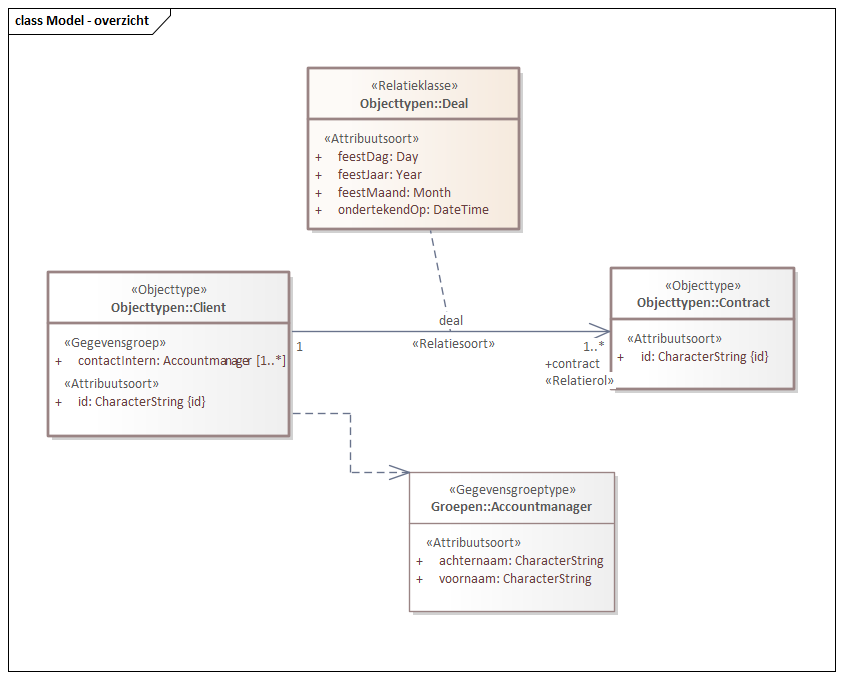
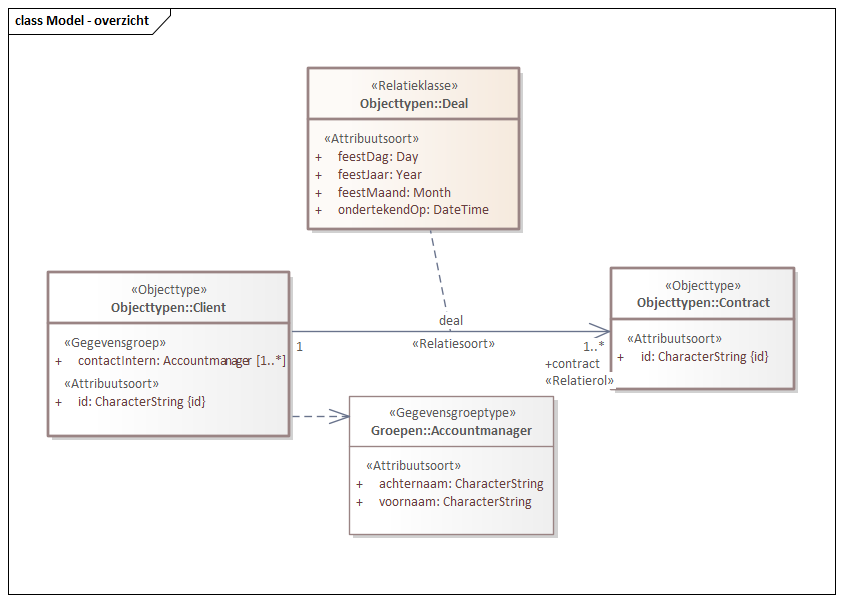
NEN3610-2022-Bakstenenconceptueelmodel-1.0.0-2-20220901-20230118-164837

diff --git a/data/SAMPLE-cat.respec.html b/data/SAMPLE-cat.respec.html
@@ -1,7 +1,7 @@
 
 <!DOCTYPE HTML><section id="cat" class="normative">
    <h2>Gegevensdefinitie</h2>
-   <!--NEN3610-2022-Bakstenenconceptueelmodel-1.0.0-2-20130318-20230118-164554 imvertor Nightly-build.3--><a class="anchor" id="global_packages"></a><section id="global_packages">
+   <!--NEN3610-2022-Bakstenenconceptueelmodel-1.0.0-2-20220901-20230118-164837 imvertor Nightly-build.3--><a class="anchor" id="global_packages"></a><section id="global_packages">
       <h3>Model   Bakstenen conceptueel model</h3>
       <section id="EAID_08513AA0_8A50_46c1_AD86_9B80D9A6AAE1">
          <h4>   Model - overzicht</h4>
@@ -19,7 +19,7 @@
       <h3>Domein   Baksteen productie</h3>
       <section id="EAID_84CEDDF3_6992_489f_A4EE_319145DE4118">
          <h4>   Model - overzicht</h4>
-         <div class="imageinfo overview"><img src="data/Images/EAID_84CEDDF3_6992_489f_A4EE_319145DE4118.png" usemap="#imagemap-EAID_84CEDDF3_6992_489f_A4EE_319145DE4118" alt="Diagram &#xA;                        Overzicht van alle constructies in dit model voor bakstenen en hun producenten.&#xA;                     "><map name="imagemap-EAID_84CEDDF3_6992_489f_A4EE_319145DE4118"><area shape="rect" alt="Fabriek" coords="899,122,1036,231" href="#graph_EAID_0D13D4A0_F7FA_4417_A5FC_3F4C83F067F2"><area shape="rect" alt="Postcode" coords="580,812,742,878" href="#graph_EAID_6E1568CE_9039_4ed8_B360_291D77922C9F"><area shape="rect" alt="Gewicht" coords="804,810,1003,961" href="#graph_EAID_11FD40A5_BE06_452a_9307_B5B5155E0EA4"><area shape="rect" alt="Baksteentype Baksteentype" coords="802,632,1002,778" href="#graph_EAID_705E4D02_09C2_4812_AA1F_D80E12C89EE0"><area shape="rect" alt="Steengrootte" coords="316,622,494,764" href="#graph_EAID_65363897_E229_41fd_BE6F_E6B1BACAD458"><area shape="rect" alt="Oppervlak" coords="309,809,550,876" href="#graph_EAID_8860422B_51C4_4f67_B9C4_90B01A356442"><area shape="rect" alt="Status" coords="53,623,238,763" href="#graph_EAID_E86D21EE_58FD_4975_9CCB_AFF2434704A8"><area shape="rect" alt="Lijn" coords="48,808,283,878" href="#graph_EAID_05E012A3_0E45_4b91_8F93_3CC0D50B0509"><area shape="rect" alt="Goniometric" coords="63,934,260,1088" href="#graph_EAID_22DF50AD_91EB_4db3_AA33_D5C2CE2FB906"><area shape="rect" alt="ExterneProducent" coords="528,372,713,530" href="#graph_EAID_E2C93214_90E2_4151_B719_7BB8CDF8679F"><area shape="rect" alt="Baksteen" coords="70,112,307,448" href="#graph_EAID_CF7C4448_E50C_4c7a_B1D0_C4FCB2EB1814"><area shape="rect" alt="ProductieKenmerk" coords="542,624,757,769" href="#graph_EAID_4D78F0AD_88ED_44ef_9A76_163426CD74D1"><area shape="rect" alt="Producent" coords="515,112,700,311" href="#graph_EAID_04EED45C_4D30_41b9_83EE_65237E1F8E27"><area shape="rect" alt="OppervlakGrootte" coords="316,945,467,1068" href="#graph_EAID_8D034A6D_37F7_4765_9CFF_FE3DF59A8340"></map><p><b>Model - overzicht</b>
+         <div class="imageinfo overview"><img src="data/Images/EAID_84CEDDF3_6992_489f_A4EE_319145DE4118.png" usemap="#imagemap-EAID_84CEDDF3_6992_489f_A4EE_319145DE4118" alt="Diagram &#xA;                        Overzicht van alle constructies in dit model voor bakstenen en hun producenten.&#xA;                     "><map name="imagemap-EAID_84CEDDF3_6992_489f_A4EE_319145DE4118"><area shape="rect" alt="Fabriek" coords="898,130,1035,240" href="#graph_EAID_0D13D4A0_F7FA_4417_A5FC_3F4C83F067F2"><area shape="rect" alt="Postcode" coords="580,812,742,878" href="#graph_EAID_6E1568CE_9039_4ed8_B360_291D77922C9F"><area shape="rect" alt="Gewicht" coords="804,810,1003,961" href="#graph_EAID_11FD40A5_BE06_452a_9307_B5B5155E0EA4"><area shape="rect" alt="Baksteentype Baksteentype" coords="802,632,1002,778" href="#graph_EAID_705E4D02_09C2_4812_AA1F_D80E12C89EE0"><area shape="rect" alt="Steengrootte" coords="316,622,494,764" href="#graph_EAID_65363897_E229_41fd_BE6F_E6B1BACAD458"><area shape="rect" alt="Oppervlak" coords="309,809,550,876" href="#graph_EAID_8860422B_51C4_4f67_B9C4_90B01A356442"><area shape="rect" alt="Status" coords="53,623,238,763" href="#graph_EAID_E86D21EE_58FD_4975_9CCB_AFF2434704A8"><area shape="rect" alt="Lijn" coords="48,808,283,878" href="#graph_EAID_05E012A3_0E45_4b91_8F93_3CC0D50B0509"><area shape="rect" alt="Goniometric" coords="63,934,260,1088" href="#graph_EAID_22DF50AD_91EB_4db3_AA33_D5C2CE2FB906"><area shape="rect" alt="ExterneProducent" coords="528,372,713,530" href="#graph_EAID_E2C93214_90E2_4151_B719_7BB8CDF8679F"><area shape="rect" alt="Baksteen" coords="70,112,307,448" href="#graph_EAID_CF7C4448_E50C_4c7a_B1D0_C4FCB2EB1814"><area shape="rect" alt="ProductieKenmerk" coords="542,624,757,769" href="#graph_EAID_4D78F0AD_88ED_44ef_9A76_163426CD74D1"><area shape="rect" alt="Producent" coords="515,112,700,311" href="#graph_EAID_04EED45C_4D30_41b9_83EE_65237E1F8E27"><area shape="rect" alt="OppervlakGrootte" coords="316,945,467,1068" href="#graph_EAID_8D034A6D_37F7_4765_9CFF_FE3DF59A8340"></map><p><b>Model - overzicht</b>
                
                <p>Overzicht van alle constructies in dit model voor bakstenen en hun producenten.</p>
                </p>
@@ -87,7 +87,7 @@
             
             <section id="EAID_EB759E5B_3FAA_4064_A73E_704926072F89">
                <h6>   Baksteen - detail</h6>
-               <div class="imageinfo "><img src="data/Images/EAID_EB759E5B_3FAA_4064_A73E_704926072F89.png" usemap="#imagemap-EAID_EB759E5B_3FAA_4064_A73E_704926072F89" alt="Diagram &#xA;                              Gedetailleerde informatie over Baksteen objectttype, inclusief traces.&#xA;                           "><map name="imagemap-EAID_EB759E5B_3FAA_4064_A73E_704926072F89"><area shape="rect" alt="Producent" coords="289,68,446,208" href="#graph_EAID_04EED45C_4D30_41b9_83EE_65237E1F8E27"><area shape="rect" alt="Baksteen" coords="268,324,511,660" href="#graph_EAID_CF7C4448_E50C_4c7a_B1D0_C4FCB2EB1814"></map><p><b>Baksteen - detail</b>
+               <div class="imageinfo "><img src="data/Images/EAID_EB759E5B_3FAA_4064_A73E_704926072F89.png" usemap="#imagemap-EAID_EB759E5B_3FAA_4064_A73E_704926072F89" alt="Diagram &#xA;                              Gedetailleerde informatie over Baksteen objectttype, inclusief traces.&#xA;                           "><map name="imagemap-EAID_EB759E5B_3FAA_4064_A73E_704926072F89"><area shape="rect" alt="Producent" coords="164,59,322,199" href="#graph_EAID_04EED45C_4D30_41b9_83EE_65237E1F8E27"><area shape="rect" alt="Baksteen" coords="144,315,386,650" href="#graph_EAID_CF7C4448_E50C_4c7a_B1D0_C4FCB2EB1814"></map><p><b>Baksteen - detail</b>
                      
                      <p>Gedetailleerde informatie over Baksteen objectttype, inclusief traces.</p>
                      </p>
@@ -107,7 +107,7 @@
                      <td>
                         
                         <p>Een onderdeel van een bouwwerk met een rechthoekige vorm, bedoeld om muren mee te
-                           maken.</p>
+                           maken!</p>
                         </td>
                   </tr>
                   <tr>
@@ -122,7 +122,7 @@
                      <th>Toelichting</th>
                      <td>
                         
-                        <p>Een baksteen is een soort bouwmateriaal, <em>maar alleen als het uit klei is gemaakt door 3e graads-bevoegde mensen</em>.</p>
+                        <p>Een baksteen is een soort bouwmateriaal, <em>maar alleen als het uit klei is gemaakt door mensen</em>.</p>
                         </td>
                   </tr>
                   <tr>
@@ -1089,6 +1089,13 @@
                         <tr>
                            <th>Mogelijk geen waarde</th>
                            <td>Nee</td>
+                        </tr>
+                        <tr>
+                           <th>Inwinningsregels</th>
+                           <td>
+                              
+                              <p>Dit zijn de inwinningsregels</p>
+                              </td>
                         </tr>
                         <tr>
                            <th>Indicatie identificerend</th>
@@ -2349,7 +2356,7 @@
       <h3>Domein   Contract</h3>
       <section id="EAID_B1512B43_5B77_4c7c_9574_232179AC3035">
          <h4>   Model - overzicht</h4>
-         <div class="imageinfo overview"><img src="data/Images/EAID_B1512B43_5B77_4c7c_9574_232179AC3035.png" usemap="#imagemap-EAID_B1512B43_5B77_4c7c_9574_232179AC3035" alt="Diagram &#xA;                        Overzicht van alle constructies in dit model voor contracten.&#xA;                        En ook een é diacriet.&#xA;                     "><map name="imagemap-EAID_B1512B43_5B77_4c7c_9574_232179AC3035"><area shape="rect" alt="Accountmanager" coords="409,472,615,612" href="#graph_EAID_29D6B892_B943_494c_94C7_A13DB031E998"><area shape="rect" alt="Deal" coords="308,68,520,230" href="#graph_EAID_77692663_02DC_482e_827D_F7D28AF607D8"><area shape="rect" alt="Contract" coords="611,268,795,390" href="#graph_EAID_77987690_1141_457d_A33B_E1C7AA1EA812"><area shape="rect" alt="Client" coords="48,272,290,437" href="#graph_EAID_DF955A82_3E49_4c9d_9C0C_74738600FE1B"></map><p><b>Model - overzicht</b>
+         <div class="imageinfo overview"><img src="data/Images/EAID_B1512B43_5B77_4c7c_9574_232179AC3035.png" usemap="#imagemap-EAID_B1512B43_5B77_4c7c_9574_232179AC3035" alt="Diagram &#xA;                        Overzicht van alle constructies in dit model voor contracten.&#xA;                        En ook een é diacriet.&#xA;                     "><map name="imagemap-EAID_B1512B43_5B77_4c7c_9574_232179AC3035"><area shape="rect" alt="Accountmanager" coords="349,396,554,535" href="#graph_EAID_29D6B892_B943_494c_94C7_A13DB031E998"><area shape="rect" alt="Deal" coords="308,68,520,230" href="#graph_EAID_77692663_02DC_482e_827D_F7D28AF607D8"><area shape="rect" alt="Contract" coords="611,268,795,390" href="#graph_EAID_77987690_1141_457d_A33B_E1C7AA1EA812"><area shape="rect" alt="Client" coords="48,272,290,437" href="#graph_EAID_DF955A82_3E49_4c9d_9C0C_74738600FE1B"></map><p><b>Model - overzicht</b>
                
                <p>Overzicht van<b> alle constructies </b>in dit model voor contracten.</p>
                
@@ -3374,7 +3381,7 @@
 </section>
 <section id="lis" class="normative">
    <h2>Inhoud van waardenlijsten</h2>
-   <!--NEN3610-2022-Bakstenenconceptueelmodel-1.0.0-2-20130318-20230118-164554 imvertor Nightly-build.3-->
+   <!--NEN3610-2022-Bakstenenconceptueelmodel-1.0.0-2-20220901-20230118-164837 imvertor Nightly-build.3-->
    <section id="">
       <h3>Referentielijst inhoud   </h3><a class="anchor" id="graph_EAID_705E4D02_09C2_4812_AA1F_D80E12C89EE0"></a><a class="anchor" id="detail_class_BaksteenProductie_Baksteentype"></a><section id="detail_class_BaksteenProductie_Baksteentype">
          <h4>Referentielijst  Baksteentype</h4>
